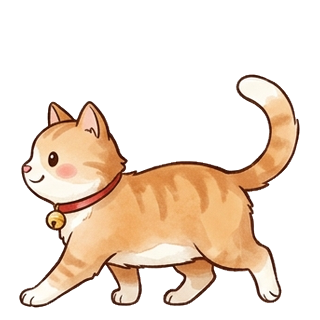
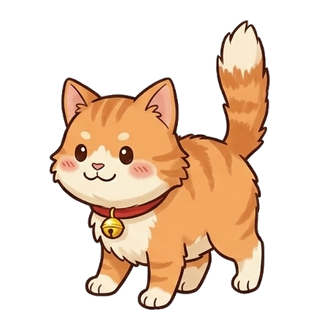
v4: unify cat character design, fix sleep/sniff slicing & remove blister flip

diff --git a/src/components/BlisterPack.tsx b/src/components/BlisterPack.tsx
@@ -1,6 +1,5 @@
 import React, { useEffect, useMemo, useRef, useState } from 'react';
 import {
-  RotateCw,
   Check,
   AlertCircle,
   Clock,
@@ -111,7 +110,6 @@ export const BlisterPack: React.FC<BlisterPackProps> = ({
   const isRoseGold = theme === 'rosegold_bloom';
   const walkerName = catNames.walker?.trim() || 'Mimi';
 
-  const [isBackView, setIsBackView] = useState(false);
   const [poppingAnim, setPoppingAnim] = useState<PopAnimationState | null>(null);
   const [pressingIndex, setPressingIndex] = useState<number | null>(null);
   const [selectedPill, setSelectedPill] = useState<{
@@ -185,10 +183,6 @@ export const BlisterPack: React.FC<BlisterPackProps> = ({
       clearRoamTimers();
     };
   }, []);
-
-  useEffect(() => {
-    if (isCatBowl && isBackView) setIsBackView(false);
-  }, [isCatBowl, isBackView]);
 
   // Smooth eating frame swap ONLY while actively eating
   useEffect(() => {
@@ -878,24 +872,6 @@ export const BlisterPack: React.FC<BlisterPackProps> = ({
                 />
               </div>
             )
-          ) : isBackView ? (
-            <div
-              className="relative w-full h-full rounded-full flex flex-col items-center justify-center border border-slate-400/60 shadow-inner"
-              style={{
-                background: isRoseGold
-                  ? 'radial-gradient(circle at 35% 30%, rgba(255,241,242,0.85), rgba(244,182,194,0.8) 60%, rgba(190,120,138,0.85) 100%)'
-                  : 'radial-gradient(circle at 35% 30%, rgba(255,255,255,0.65), rgba(203,213,225,0.75) 60%, rgba(148,163,184,0.85) 100%)',
-              }}
-            >
-              <span className="text-[10px] font-bold text-slate-700 leading-none">
-                {pill.dayIndex + 1}
-              </span>
-              {pill.isPlacebo && (
-                <span className="text-[7px] uppercase tracking-wider font-semibold text-violet-700 mt-0.5">
-                  PL
-                </span>
-              )}
-            </div>
           ) : (
             <div className="relative w-full h-full rounded-full flex items-center justify-center">
               <span className="absolute inset-0 rounded-full bg-slate-900/18 blur-[1.5px] translate-y-[1.5px]" />
@@ -993,8 +969,6 @@ export const BlisterPack: React.FC<BlisterPackProps> = ({
     ? 'blister-catbowl-surface border-amber-200/80'
     : isRoseGold
     ? 'blister-rosegold-surface border-rose-200/90'
-    : isBackView
-    ? 'blister-back-surface border-white/80'
     : 'blister-card-surface border-white/80';
 
   const schemaTag = `${config.activePills}${
@@ -1047,33 +1021,13 @@ export const BlisterPack: React.FC<BlisterPackProps> = ({
               {config.brandName.trim() ? `${config.brandName.trim()} • ${schemaTag}` : schemaTag}
             </span>
 
-            <div className="flex items-center gap-2">
-              <span
-                className={
-                  isCatBowl ? 'text-amber-900' : isRoseGold ? 'text-rose-900' : 'text-slate-600'
-                }
-              >
-                {poppedCount}/{totalPhysicalPills}
-              </span>
-              {!isCatBowl && (
-                <button
-                  type="button"
-                  onClick={() => {
-                    triggerHaptic(hapticsEnabled, 'light');
-                    setIsBackView((v) => !v);
-                  }}
-                  className="w-6 h-6 rounded-full bg-white/60 hover:bg-white/90 text-slate-600 flex items-center justify-center active:scale-95 transition"
-                  title="Rückseite"
-                  aria-label="Blister umdrehen"
-                >
-                  <RotateCw
-                    className={`w-3 h-3 transition-transform duration-300 ${
-                      isBackView ? 'rotate-180 app-accent-text' : ''
-                    }`}
-                  />
-                </button>
-              )}
-            </div>
+            <span
+              className={
+                isCatBowl ? 'text-amber-900' : isRoseGold ? 'text-rose-900' : 'text-slate-600'
+              }
+            >
+              {poppedCount}/{totalPhysicalPills}
+            </span>
           </div>
 
           {!isCatBowl && (

diff --git a/src/components/OnboardingScreen.tsx b/src/components/OnboardingScreen.tsx
@@ -16,7 +16,7 @@ export const OnboardingScreen: React.FC<OnboardingScreenProps> = ({ catNames, on
             <img
               src="/assets/cat-walker.png"
               alt=""
-              className="w-full h-full object-contain drop-shadow-md animate-cat-idle"
+              className="w-full h-full object-contain drop-shadow-md"
             />
           </div>
           <h1
